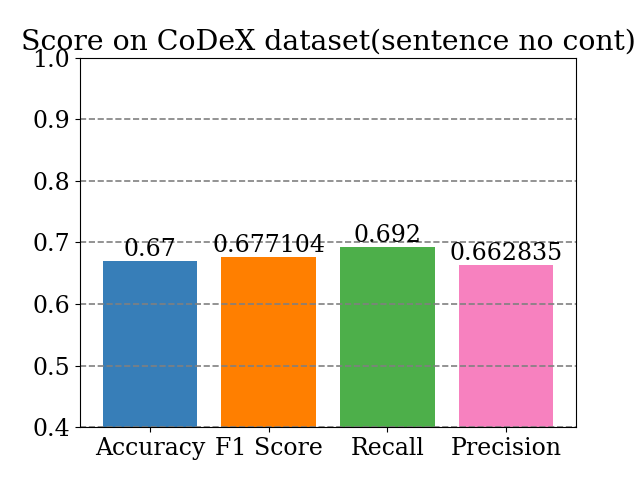
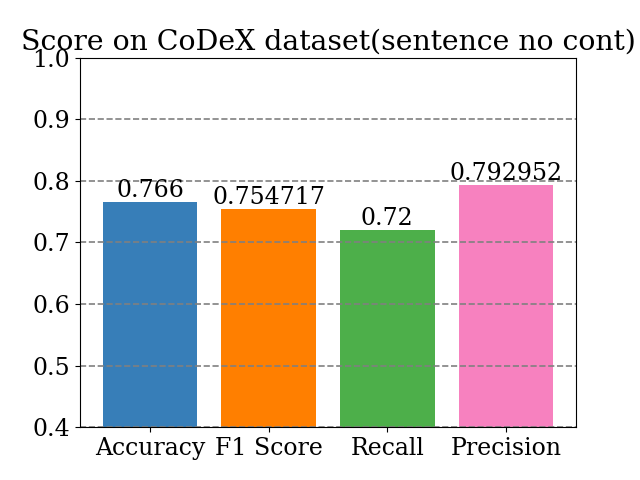
update experiment setup codex and freebase for triple and sentence evaluation using llm

Changed region(s): [[0.1562, 0.375, 0.5, 0.5625], [0.5312, 0.3125, 0.875, 0.5625]]

diff --git a/experiment/prep_llm.py b/experiment/prep_llm.py
@@ -1,0 +1,104 @@
+from langchain_community.document_loaders.csv_loader import CSVLoader
+from langchain_experimental.text_splitter import SemanticChunker
+from langchain.embeddings import HuggingFaceEmbeddings
+from langchain_community.embeddings import HuggingFaceEmbeddings
+from langchain_community.vectorstores import FAISS
+from langchain_community.llms import Ollama
+from langchain.chains import RetrievalQA
+from langchain.chains.llm import LLMChain
+from langchain.chains.combine_documents.stuff import StuffDocumentsChain
+from langchain.prompts import PromptTemplate
+from langchain_core.prompts import ChatPromptTemplate
+import pandas as pd
+
+def create_retriever(file_path:str, top_k:int = 2):
+    loader = CSVLoader(file_path=file_path)
+    docs = loader.load()
+    text_splitter = SemanticChunker(HuggingFaceEmbeddings())
+    documents = text_splitter.split_documents(docs)
+    # Instantiate the embedding model
+    embedder = HuggingFaceEmbeddings()
+    # Create the vector store 
+    vector = FAISS.from_documents(documents, embedder)
+    retriever = vector.as_retriever(search_type="similarity", search_kwargs={"k": top_k})
+    return retriever
+
+def prompt_answer(prompt_template:str, **kwargs) -> str:
+    # Define llm
+    llm = Ollama(model="mistral", temperature=0.1)
+    prompt = ChatPromptTemplate.from_template(prompt_template)
+    model = llm
+    chain = prompt | model
+    result = chain.invoke(kwargs)
+    return result
+
+def plain_triple(df:pd.DataFrame):
+    template = """
+    1. Evaluate if the triple represent a correct fact or not.\n
+    2. Is the triple correct: answer "1" if it is correct and "0" otherwise.\n
+    3. If you don't know the answer, just say that "-1"\n
+    4. Start the answer with 'Score:'\n
+    5. A triple represent a relation between the head entity and the tail entity\n
+    Triple: {triple}
+    Helpful Answer:"""
+
+    triple_list = []
+    for item in df.iterrows():
+        triple = item[1]
+        head = triple['Head']
+        relation = triple['Relation']
+        tail = triple['Tail']
+        triple_sentence = f"Head:{head}\t Relation:{relation}\t Tail:{tail}"
+        triple_list.append(triple_sentence)
+
+    score_list = []
+    for triple in triple_list:
+        score = prompt_answer(template, triple=triple)
+        score_list.append(score)
+    return score_list
+
+def RAG_triple(df:pd.DataFrame, retriever):
+    template = """
+    1. Use the following pieces of context to determine if the final triple present correct fact or not.\n
+    2. Is the triple correct: answer "1" if it is correct and "0" otherwise.\n
+    3. If you don't know the answer, just say that "-1"\n
+    4. Start the answer with 'Score:'\n
+    5. A triple represent a relation between the head entity and the tail entity\n
+
+    Here similar triples to help you make a decision:
+    Context: {context}
+    Here the triple to evaluate:
+    Triple: {triple}
+
+    Helpful Answer:"""
+
+    def get_context_list(triple):
+        new_context_list = []
+        context_list =  retriever.invoke(triple)
+        for context in context_list:
+            context = context.page_content
+            new_context_list.append(context)
+        return new_context_list
+    
+    triple_list = []
+    for item in df.iterrows():
+        triple = item[1]
+        head = triple['Head']
+        relation = triple['Relation']
+        tail = triple['Tail']
+        triple_sentence = f"Head:{head}\t Relation:{relation}\t Tail:{tail}"
+        triple_list.append(triple_sentence)
+
+    score_list = []
+    for triple in triple_list:
+        context = get_context_list(triple)
+        score = prompt_answer(template, triple=triple, context=context)
+        score_list.append(score)
+
+    return score_list
+
+def plain_sentence(df:pd.DataFrame):
+    return None
+
+
+

diff --git a/experiment/filtering.py b/experiment/filtering.py
@@ -36,3 +36,15 @@ def create_filtred_df(df:pd.DataFrame, candidates_df:pd.DataFrame, missing_df:pd
     model, train_df = train_transe_embedding(df)
     filtred_df = get_filtred_df(model,candidates_df, missing_df, train_df)
     return filtred_df
+
+def create_sample(df:pd.DataFrame, sample_size:int=500, true_cand_ratio:float=0.5) -> pd.DataFrame:
+    """
+    Creating sample of the dataframe
+    """
+    true_cand_size = int(sample_size * true_cand_ratio)
+    false_cand_size = sample_size - true_cand_size
+    true_cand_df = df[df['Missing'] == 1].sample(true_cand_size)
+    false_cand_df = df[df['Missing'] == 0].sample(false_cand_size)
+    df_sample = pd.concat([true_cand_df, false_cand_df])
+    df_sample = df_sample.sample(frac=1)
+    return df_sample
